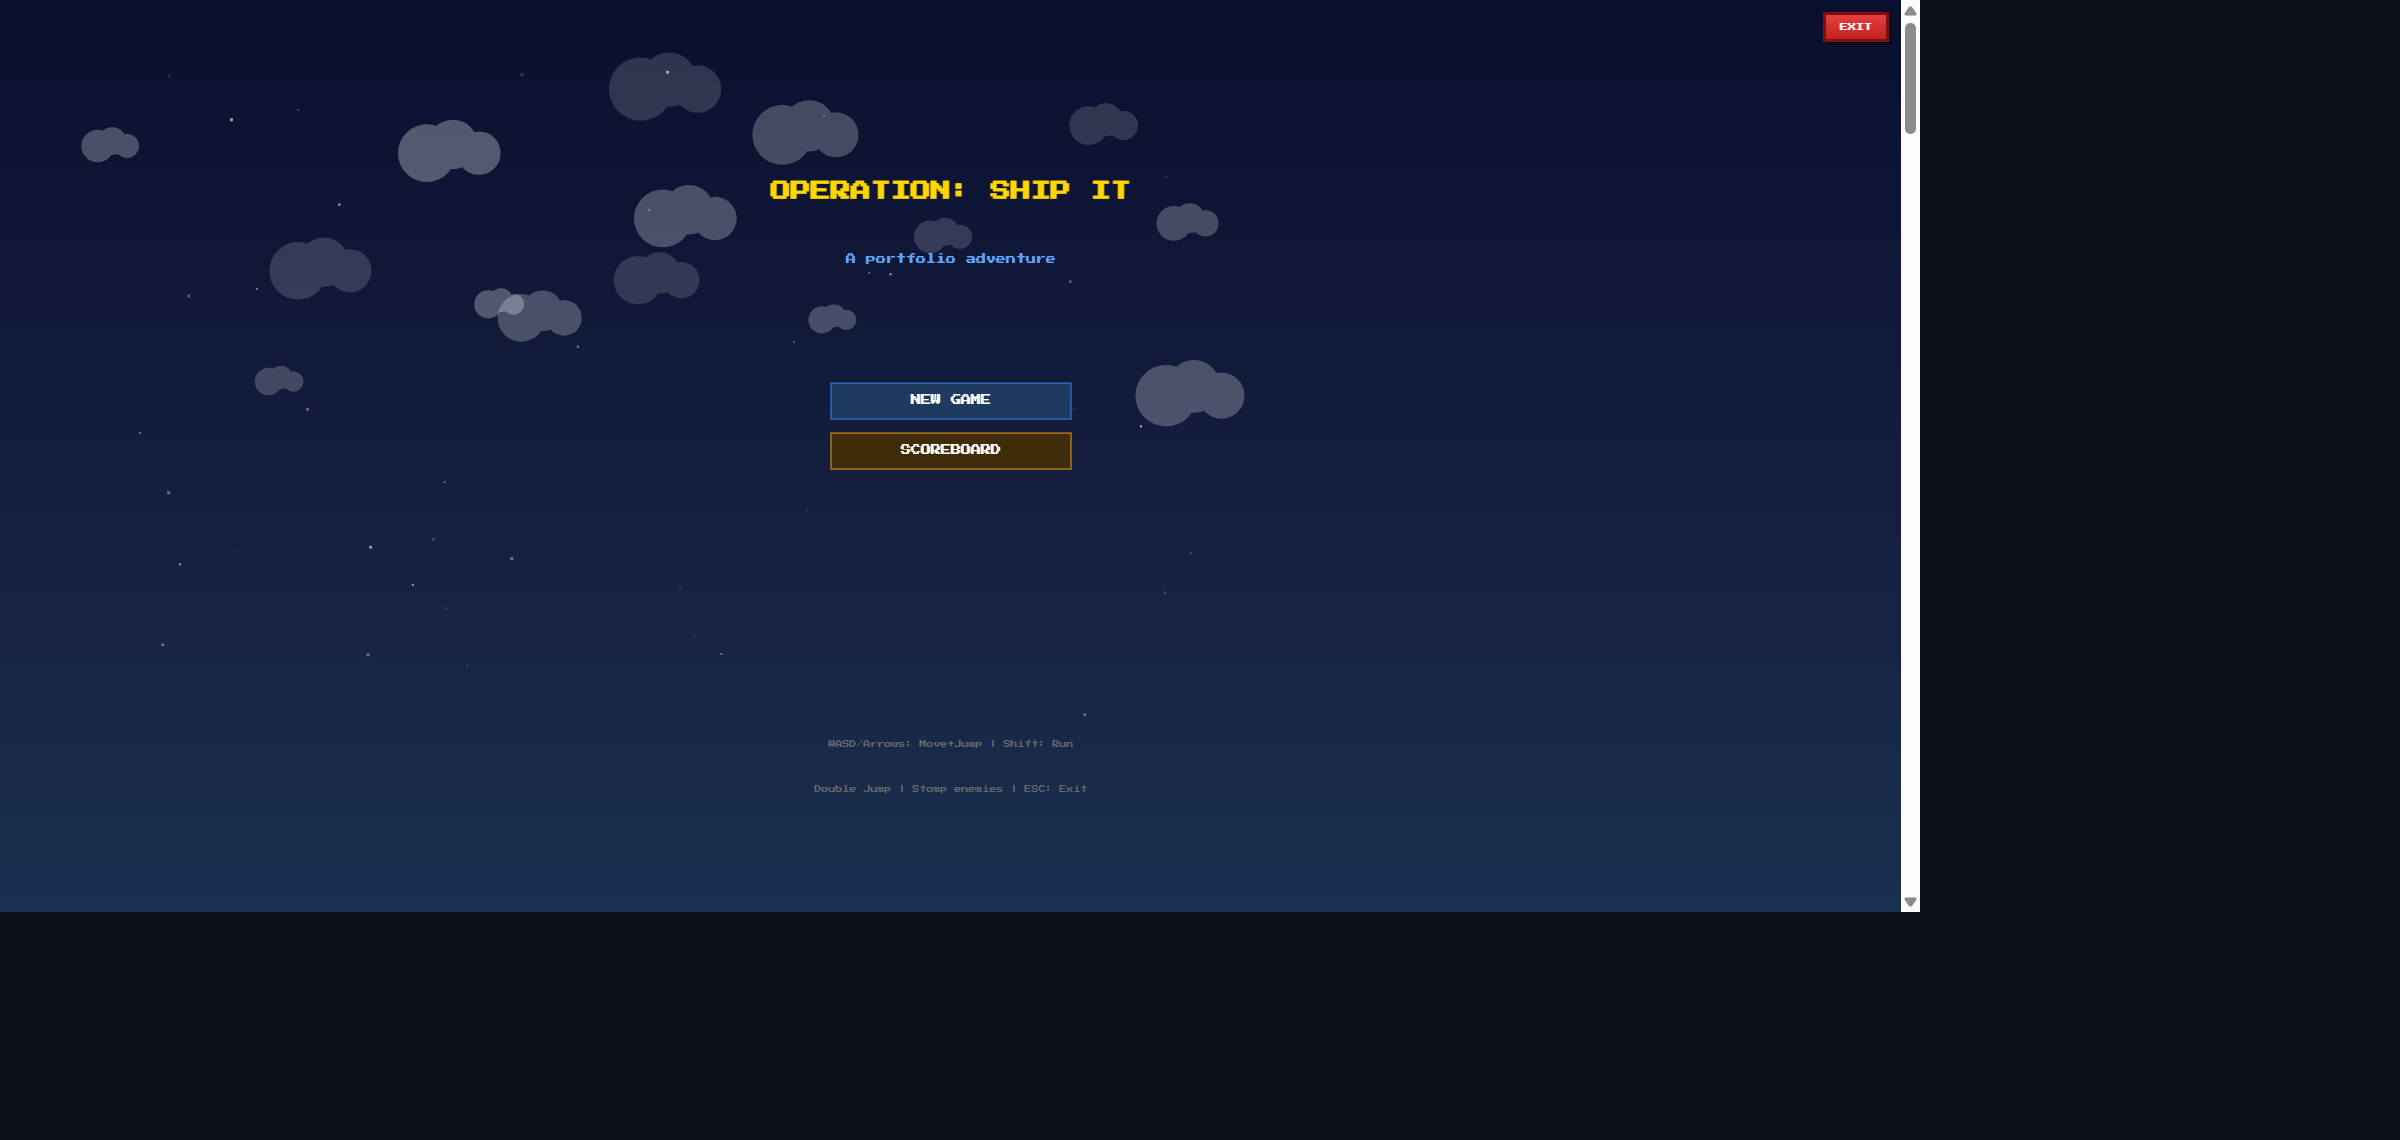
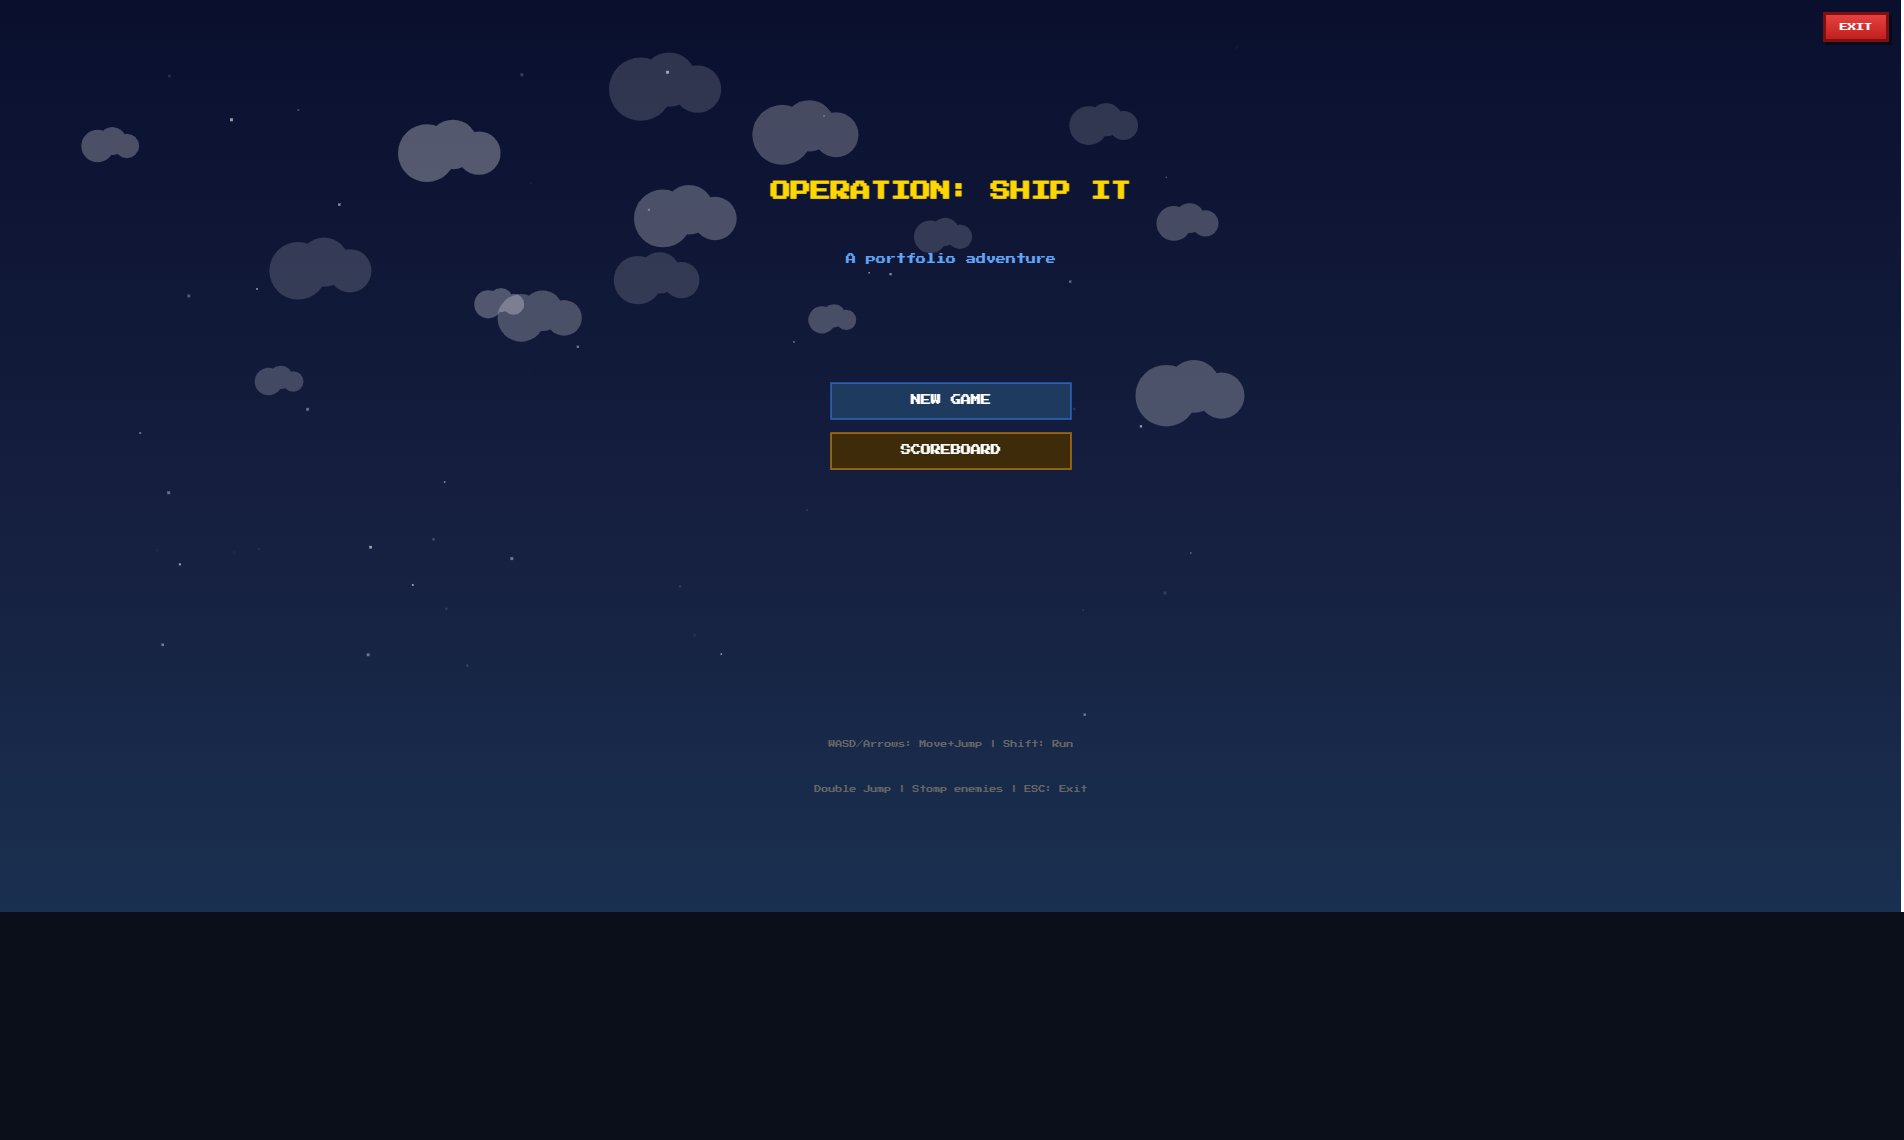
fix: remove wrong BerriosPay image and crop scrollbars from PR Tax Pro and Ship IT screenshots

diff --git a/index.html b/index.html
@@ -2006,8 +2006,7 @@ document.addEventListener('DOMContentLoaded',function(){
         desc:'Enterprise payment kiosk system for a 45+ year old Puerto Rican retailer. Handles self-service payments across 25+ locations with PCI DSS compliance, PAX terminal integration, and zero duplicate transactions.',
         descShort:'Enterprise payment kiosk system for 45+ year old PR retailer. Self-service payments across 25+ locations with PCI DSS compliance.',
         tech:['React 19','.NET 10','WPF','Azure SQL','PAX A920','Epson TM-M30II'],
-        github:'https://github.com/luisangelrod',
-        img:'img/projects/portfolio-bot-results.png'
+        github:'https://github.com/luisangelrod'
       },
       {
         id:'gofleetcare',cat:'work',year:'2025',title:'GoFleetCare',
